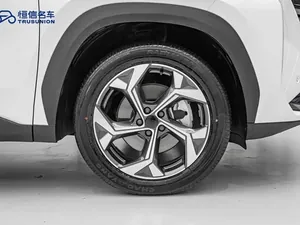
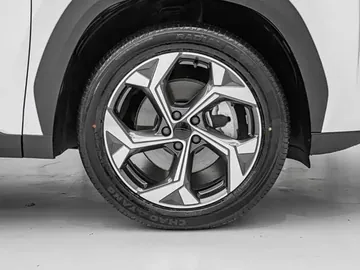
daily: 2026-09-24 每日上架 4 台 (JB-9496 瑞虎7, JB-9506 瑞虎8, JB-9516 博越L, JB-9526 星越L); 封面正前/左前45°目检落地 + 清除博越L图片水印; ingest_batch 新增 stock_id 重复防呆闸; 修复误覆盖的 id=271(哈弗H6)

diff --git a/ru/index.html b/ru/index.html
@@ -95,8 +95,8 @@
     <div class="jv7-grid4">
 <article class="jv7-car"><div class="jv7-car-photo"><img src="/uploads/cars/409/primary.webp" alt="Geely Monjaro 2021 2.0TD автомат 4WD флагман" loading="lazy" decoding="async" width="720" height="540"><span class="jv7-tags"><b>2021</b><span class="jv7-chip">Бензин</span><span class="jv7-chip">SUV</span></span></div><div class="jv7-car-body"><h3 class="jv7-car-name">Geely Monjaro 2021 2.0TD автомат 4WD флагман</h3><div class="jv7-car-spec">JB-9526 · 38,000 km</div><p class="jv7-car-desc">Автомобиль JB-9526: Geely Monjaro 2021 2.0TD автомат 4WD флагман, 2021 год, заявленный пробег 38,000 км. Наличие, состояние и экспортная цена подтвер…</p><div class="jv7-car-foot"><div><div class="jv7-price">$14,972 <span class="jv7-cur">USD</span></div><div class="jv7-fob">FOB Момбаса · Шанхай</div></div><a class="jv7-btn jv7-btn--details" href="/ru/cars/409/">Подробнее <span aria-hidden="true">→</span></a></div></div></article>
 <article class="jv7-car"><div class="jv7-car-photo"><img src="/uploads/cars/408/primary.webp" alt="Geely L 2023 2.0TD DCT флагман" loading="lazy" decoding="async" width="720" height="540"><span class="jv7-tags"><b>2023</b><span class="jv7-chip">Бензин</span><span class="jv7-chip">SUV</span></span></div><div class="jv7-car-body"><h3 class="jv7-car-name">Geely L 2023 2.0TD DCT флагман</h3><div class="jv7-car-spec">JB-9516 · 60,000 km</div><p class="jv7-car-desc">Автомобиль JB-9516: Geely L 2023 2.0TD DCT флагман, 2023 год, заявленный пробег 60,000 км. Наличие, состояние и экспортная цена подтверждаются до опл…</p><div class="jv7-car-foot"><div><div class="jv7-price">$9,833 <span class="jv7-cur">USD</span></div><div class="jv7-fob">FOB Момбаса · Шанхай</div></div><a class="jv7-btn jv7-btn--details" href="/ru/cars/408/">Подробнее <span aria-hidden="true">→</span></a></div></div></article>
-<article class="jv7-car"><div class="jv7-car-photo"><img src="/uploads/cars/407/primary.webp" alt="Chery Tiggo 8 PLUS 2025 290TGDI DCT премиум" loading="lazy" decoding="async" width="720" height="540"><span class="jv7-tags"><b>2025</b><span class="jv7-chip">Бензин</span><span class="jv7-chip">SUV</span></span></div><div class="jv7-car-body"><h3 class="jv7-car-name">Chery Tiggo 8 PLUS 2025 290TGDI DCT премиум</h3><div class="jv7-car-spec">JB-9506 · 4,000 km</div><p class="jv7-car-desc">Автомобиль JB-9506: Chery Tiggo 8 PLUS 2025 290TGDI DCT премиум, 2025 год, заявленный пробег 4,000 км. Наличие, состояние и экспортная цена подтвержд…</p><div class="jv7-car-foot"><div><div class="jv7-price">$9,514 <span class="jv7-cur">USD</span></div><div class="jv7-fob">FOB Момбаса · Шанхай</div></div><a class="jv7-btn jv7-btn--details" href="/ru/cars/407/">Подробнее <span aria-hidden="true">→</span></a></div></div></article>
 <article class="jv7-car"><div class="jv7-car-photo"><img src="/uploads/cars/406/primary.webp" alt="Chery Tiggo 7 PLUS 2023 1.5TCI CVT версия" loading="lazy" decoding="async" width="720" height="540"><span class="jv7-tags"><b>2023</b><span class="jv7-chip">Бензин</span><span class="jv7-chip">SUV</span></span></div><div class="jv7-car-body"><h3 class="jv7-car-name">Chery Tiggo 7 PLUS 2023 1.5TCI CVT версия</h3><div class="jv7-car-spec">JB-9496 · 38,000 km</div><p class="jv7-car-desc">Автомобиль JB-9496: Chery Tiggo 7 PLUS 2023 1.5TCI CVT версия, 2023 год, заявленный пробег 38,000 км. Наличие, состояние и экспортная цена подтвержда…</p><div class="jv7-car-foot"><div><div class="jv7-price">$9,875 <span class="jv7-cur">USD</span></div><div class="jv7-fob">FOB Момбаса · Шанхай</div></div><a class="jv7-btn jv7-btn--details" href="/ru/cars/406/">Подробнее <span aria-hidden="true">→</span></a></div></div></article>
+<article class="jv7-car"><div class="jv7-car-photo"><img src="/uploads/cars/404/photo-09.webp" alt="Li Auto L7 2023 Pro" loading="lazy" decoding="async" width="720" height="540"><span class="jv7-tags"><b>2023</b><span class="jv7-chip">PHEV</span><span class="jv7-chip">SUV</span></span></div><div class="jv7-car-body"><h3 class="jv7-car-name">Li Auto L7 2023 Pro</h3><div class="jv7-car-spec">JB-9485 · 75,000 km</div><p class="jv7-car-desc">Автомобиль JB-9485: Li Auto L7 2023 Pro, 2023 год, заявленный пробег 75,000 км. Наличие, состояние и экспортная цена подтверждаются до оплаты.</p><div class="jv7-car-foot"><div><div class="jv7-price">$23,444 <span class="jv7-cur">USD</span></div><div class="jv7-fob">FOB Момбаса · Шанхай</div></div><a class="jv7-btn jv7-btn--details" href="/ru/cars/404/">Подробнее <span aria-hidden="true">→</span></a></div></div></article>
     </div>
   </div>
 </section>

diff --git a/ar/index.html b/ar/index.html
@@ -95,8 +95,8 @@
     <div class="jv7-grid4">
 <article class="jv7-car"><div class="jv7-car-photo"><img src="/uploads/cars/409/primary.webp" alt="Geely Monjaro 2021 2.0TD أوتوماتيك 4WD رائدة" loading="lazy" decoding="async" width="720" height="540"><span class="jv7-tags"><b>2021</b><span class="jv7-chip">بنزين</span><span class="jv7-chip">SUV</span></span></div><div class="jv7-car-body"><h3 class="jv7-car-name">Geely Monjaro 2021 2.0TD أوتوماتيك 4WD رائدة</h3><div class="jv7-car-spec">JB-9526 · 38,000 km</div><p class="jv7-car-desc">المخزون JB-9526: Geely Monjaro 2021 2.0TD أوتوماتيك 4WD رائدة موديل 2021، والعداد المعروض 38,000 كم. يجب تأكيد التوفر والحالة وعرض التصدير قبل الدفع.</p><div class="jv7-car-foot"><div><div class="jv7-price">$14,972 <span class="jv7-cur">USD</span></div><div class="jv7-fob">FOB مومباسا · شنغهاي</div></div><a class="jv7-btn jv7-btn--details" href="/ar/cars/409/">التفاصيل <span aria-hidden="true">→</span></a></div></div></article>
 <article class="jv7-car"><div class="jv7-car-photo"><img src="/uploads/cars/408/primary.webp" alt="Geely L 2023 2.0TD DCT رائدة" loading="lazy" decoding="async" width="720" height="540"><span class="jv7-tags"><b>2023</b><span class="jv7-chip">بنزين</span><span class="jv7-chip">SUV</span></span></div><div class="jv7-car-body"><h3 class="jv7-car-name">Geely L 2023 2.0TD DCT رائدة</h3><div class="jv7-car-spec">JB-9516 · 60,000 km</div><p class="jv7-car-desc">المخزون JB-9516: Geely L 2023 2.0TD DCT رائدة موديل 2023، والعداد المعروض 60,000 كم. يجب تأكيد التوفر والحالة وعرض التصدير قبل الدفع.</p><div class="jv7-car-foot"><div><div class="jv7-price">$9,833 <span class="jv7-cur">USD</span></div><div class="jv7-fob">FOB مومباسا · شنغهاي</div></div><a class="jv7-btn jv7-btn--details" href="/ar/cars/408/">التفاصيل <span aria-hidden="true">→</span></a></div></div></article>
-<article class="jv7-car"><div class="jv7-car-photo"><img src="/uploads/cars/407/primary.webp" alt="Chery Tiggo 8 PLUS 2025 290TGDI DCT بريميوم" loading="lazy" decoding="async" width="720" height="540"><span class="jv7-tags"><b>2025</b><span class="jv7-chip">بنزين</span><span class="jv7-chip">SUV</span></span></div><div class="jv7-car-body"><h3 class="jv7-car-name">Chery Tiggo 8 PLUS 2025 290TGDI DCT بريميوم</h3><div class="jv7-car-spec">JB-9506 · 4,000 km</div><p class="jv7-car-desc">المخزون JB-9506: Chery Tiggo 8 PLUS 2025 290TGDI DCT بريميوم موديل 2025، والعداد المعروض 4,000 كم. يجب تأكيد التوفر والحالة وعرض التصدير قبل الدفع.</p><div class="jv7-car-foot"><div><div class="jv7-price">$9,514 <span class="jv7-cur">USD</span></div><div class="jv7-fob">FOB مومباسا · شنغهاي</div></div><a class="jv7-btn jv7-btn--details" href="/ar/cars/407/">التفاصيل <span aria-hidden="true">→</span></a></div></div></article>
 <article class="jv7-car"><div class="jv7-car-photo"><img src="/uploads/cars/406/primary.webp" alt="Chery Tiggo 7 PLUS 2023 1.5TCI CVT فئة" loading="lazy" decoding="async" width="720" height="540"><span class="jv7-tags"><b>2023</b><span class="jv7-chip">بنزين</span><span class="jv7-chip">SUV</span></span></div><div class="jv7-car-body"><h3 class="jv7-car-name">Chery Tiggo 7 PLUS 2023 1.5TCI CVT فئة</h3><div class="jv7-car-spec">JB-9496 · 38,000 km</div><p class="jv7-car-desc">المخزون JB-9496: Chery Tiggo 7 PLUS 2023 1.5TCI CVT فئة موديل 2023، والعداد المعروض 38,000 كم. يجب تأكيد التوفر والحالة وعرض التصدير قبل الدفع.</p><div class="jv7-car-foot"><div><div class="jv7-price">$9,875 <span class="jv7-cur">USD</span></div><div class="jv7-fob">FOB مومباسا · شنغهاي</div></div><a class="jv7-btn jv7-btn--details" href="/ar/cars/406/">التفاصيل <span aria-hidden="true">→</span></a></div></div></article>
+<article class="jv7-car"><div class="jv7-car-photo"><img src="/uploads/cars/404/photo-09.webp" alt="Li Auto L7 2023 Pro" loading="lazy" decoding="async" width="720" height="540"><span class="jv7-tags"><b>2023</b><span class="jv7-chip">هجين</span><span class="jv7-chip">SUV</span></span></div><div class="jv7-car-body"><h3 class="jv7-car-name">Li Auto L7 2023 Pro</h3><div class="jv7-car-spec">JB-9485 · 75,000 km</div><p class="jv7-car-desc">المخزون JB-9485: Li Auto L7 2023 Pro موديل 2023، والعداد المعروض 75,000 كم. يجب تأكيد التوفر والحالة وعرض التصدير قبل الدفع.</p><div class="jv7-car-foot"><div><div class="jv7-price">$23,444 <span class="jv7-cur">USD</span></div><div class="jv7-fob">FOB مومباسا · شنغهاي</div></div><a class="jv7-btn jv7-btn--details" href="/ar/cars/404/">التفاصيل <span aria-hidden="true">→</span></a></div></div></article>
     </div>
   </div>
 </section>

diff --git a/zh/index.html b/zh/index.html
@@ -95,8 +95,8 @@
     <div class="jv7-grid4">
 <article class="jv7-car"><div class="jv7-car-photo"><img src="/uploads/cars/409/primary.webp" alt="星越L 2021款 2.0TD 高功自动四驱旗舰型" loading="lazy" decoding="async" width="720" height="540"><span class="jv7-tags"><b>2021</b><span class="jv7-chip">汽油</span><span class="jv7-chip">SUV</span></span></div><div class="jv7-car-body"><h3 class="jv7-car-name">星越L 2021款 2.0TD 高功自动四驱旗舰型</h3><div class="jv7-car-spec">JB-9526 · 38,000 km</div><p class="jv7-car-desc">库存编号JB-9526，2021年星越L 2021款 2.0TD 高功自动四驱旗舰型，表显里程38,000公里。库存、车况和出口报价请在付款前确认。</p><div class="jv7-car-foot"><div><div class="jv7-price">$14,972 <span class="jv7-cur">USD</span></div><div class="jv7-fob">FOB 蒙巴萨 · 上海港</div></div><a class="jv7-btn jv7-btn--details" href="/zh/cars/409/">查看详情 <span aria-hidden="true">→</span></a></div></div></article>
 <article class="jv7-car"><div class="jv7-car-photo"><img src="/uploads/cars/408/primary.webp" alt="博越L 2023款 2.0TD DCT旗舰型" loading="lazy" decoding="async" width="720" height="540"><span class="jv7-tags"><b>2023</b><span class="jv7-chip">汽油</span><span class="jv7-chip">SUV</span></span></div><div class="jv7-car-body"><h3 class="jv7-car-name">博越L 2023款 2.0TD DCT旗舰型</h3><div class="jv7-car-spec">JB-9516 · 60,000 km</div><p class="jv7-car-desc">库存编号JB-9516，2023年博越L 2023款 2.0TD DCT旗舰型，表显里程60,000公里。库存、车况和出口报价请在付款前确认。</p><div class="jv7-car-foot"><div><div class="jv7-price">$9,833 <span class="jv7-cur">USD</span></div><div class="jv7-fob">FOB 蒙巴萨 · 上海港</div></div><a class="jv7-btn jv7-btn--details" href="/zh/cars/408/">查看详情 <span aria-hidden="true">→</span></a></div></div></article>
-<article class="jv7-car"><div class="jv7-car-photo"><img src="/uploads/cars/407/primary.webp" alt="瑞虎8 PLUS 2025款 290TGDI DCT尊贵版" loading="lazy" decoding="async" width="720" height="540"><span class="jv7-tags"><b>2025</b><span class="jv7-chip">汽油</span><span class="jv7-chip">SUV</span></span></div><div class="jv7-car-body"><h3 class="jv7-car-name">瑞虎8 PLUS 2025款 290TGDI DCT尊贵版</h3><div class="jv7-car-spec">JB-9506 · 4,000 km</div><p class="jv7-car-desc">库存编号JB-9506，2025年瑞虎8 PLUS 2025款 290TGDI DCT尊贵版，表显里程4,000公里。库存、车况和出口报价请在付款前确认。</p><div class="jv7-car-foot"><div><div class="jv7-price">$9,514 <span class="jv7-cur">USD</span></div><div class="jv7-fob">FOB 蒙巴萨 · 上海港</div></div><a class="jv7-btn jv7-btn--details" href="/zh/cars/407/">查看详情 <span aria-hidden="true">→</span></a></div></div></article>
 <article class="jv7-car"><div class="jv7-car-photo"><img src="/uploads/cars/406/primary.webp" alt="瑞虎7 PLUS 2023款 1.5TCI CVT新享版" loading="lazy" decoding="async" width="720" height="540"><span class="jv7-tags"><b>2023</b><span class="jv7-chip">汽油</span><span class="jv7-chip">SUV</span></span></div><div class="jv7-car-body"><h3 class="jv7-car-name">瑞虎7 PLUS 2023款 1.5TCI CVT新享版</h3><div class="jv7-car-spec">JB-9496 · 38,000 km</div><p class="jv7-car-desc">库存编号JB-9496，2023年瑞虎7 PLUS 2023款 1.5TCI CVT新享版，表显里程38,000公里。库存、车况和出口报价请在付款前确认。</p><div class="jv7-car-foot"><div><div class="jv7-price">$9,875 <span class="jv7-cur">USD</span></div><div class="jv7-fob">FOB 蒙巴萨 · 上海港</div></div><a class="jv7-btn jv7-btn--details" href="/zh/cars/406/">查看详情 <span aria-hidden="true">→</span></a></div></div></article>
+<article class="jv7-car"><div class="jv7-car-photo"><img src="/uploads/cars/404/photo-09.webp" alt="理想L7 2023款 Pro" loading="lazy" decoding="async" width="720" height="540"><span class="jv7-tags"><b>2023</b><span class="jv7-chip">插混</span><span class="jv7-chip">SUV</span></span></div><div class="jv7-car-body"><h3 class="jv7-car-name">理想L7 2023款 Pro</h3><div class="jv7-car-spec">JB-9485 · 75,000 km</div><p class="jv7-car-desc">库存编号JB-9485，2023年理想L7 2023款 Pro，表显里程75,000公里。库存、车况和出口报价请在付款前确认。</p><div class="jv7-car-foot"><div><div class="jv7-price">$23,444 <span class="jv7-cur">USD</span></div><div class="jv7-fob">FOB 蒙巴萨 · 上海港</div></div><a class="jv7-btn jv7-btn--details" href="/zh/cars/404/">查看详情 <span aria-hidden="true">→</span></a></div></div></article>
     </div>
   </div>
 </section>

diff --git a/en/index.html b/en/index.html
@@ -95,8 +95,8 @@
     <div class="jv7-grid4">
 <article class="jv7-car"><div class="jv7-car-photo"><img src="/uploads/cars/409/primary.webp" alt="Geely Monjaro 2021 2.0TD Automatic 4WD Flagship" loading="lazy" decoding="async" width="720" height="540"><span class="jv7-tags"><b>2021</b><span class="jv7-chip">Petrol</span><span class="jv7-chip">SUV</span></span></div><div class="jv7-car-body"><h3 class="jv7-car-name">Geely Monjaro 2021 2.0TD Automatic 4WD Flagship</h3><div class="jv7-car-spec">JB-9526 · 38,000 km</div><p class="jv7-car-desc">Stock JB-9526: 2021 Geely Monjaro 2021 2.0TD Automatic 4WD Flagship with 38,000 km indicated mileage. Confirm availability, condition and export quot…</p><div class="jv7-car-foot"><div><div class="jv7-price">$14,972 <span class="jv7-cur">USD</span></div><div class="jv7-fob">FOB Mombasa · Shanghai</div></div><a class="jv7-btn jv7-btn--details" href="/en/cars/409/">Details <span aria-hidden="true">→</span></a></div></div></article>
 <article class="jv7-car"><div class="jv7-car-photo"><img src="/uploads/cars/408/primary.webp" alt="Geely L 2023 2.0TD DCT Flagship" loading="lazy" decoding="async" width="720" height="540"><span class="jv7-tags"><b>2023</b><span class="jv7-chip">Petrol</span><span class="jv7-chip">SUV</span></span></div><div class="jv7-car-body"><h3 class="jv7-car-name">Geely L 2023 2.0TD DCT Flagship</h3><div class="jv7-car-spec">JB-9516 · 60,000 km</div><p class="jv7-car-desc">Stock JB-9516: 2023 Geely L 2023 2.0TD DCT Flagship with 60,000 km indicated mileage. Confirm availability, condition and export quotation before pay…</p><div class="jv7-car-foot"><div><div class="jv7-price">$9,833 <span class="jv7-cur">USD</span></div><div class="jv7-fob">FOB Mombasa · Shanghai</div></div><a class="jv7-btn jv7-btn--details" href="/en/cars/408/">Details <span aria-hidden="true">→</span></a></div></div></article>
-<article class="jv7-car"><div class="jv7-car-photo"><img src="/uploads/cars/407/primary.webp" alt="Chery Tiggo 8 PLUS 2025 290TGDI DCT Premium" loading="lazy" decoding="async" width="720" height="540"><span class="jv7-tags"><b>2025</b><span class="jv7-chip">Petrol</span><span class="jv7-chip">SUV</span></span></div><div class="jv7-car-body"><h3 class="jv7-car-name">Chery Tiggo 8 PLUS 2025 290TGDI DCT Premium</h3><div class="jv7-car-spec">JB-9506 · 4,000 km</div><p class="jv7-car-desc">Stock JB-9506: 2025 Chery Tiggo 8 PLUS 2025 290TGDI DCT Premium with 4,000 km indicated mileage. Confirm availability, condition and export quotation…</p><div class="jv7-car-foot"><div><div class="jv7-price">$9,514 <span class="jv7-cur">USD</span></div><div class="jv7-fob">FOB Mombasa · Shanghai</div></div><a class="jv7-btn jv7-btn--details" href="/en/cars/407/">Details <span aria-hidden="true">→</span></a></div></div></article>
 <article class="jv7-car"><div class="jv7-car-photo"><img src="/uploads/cars/406/primary.webp" alt="Chery Tiggo 7 PLUS 2023 1.5TCI CVT Edition" loading="lazy" decoding="async" width="720" height="540"><span class="jv7-tags"><b>2023</b><span class="jv7-chip">Petrol</span><span class="jv7-chip">SUV</span></span></div><div class="jv7-car-body"><h3 class="jv7-car-name">Chery Tiggo 7 PLUS 2023 1.5TCI CVT Edition</h3><div class="jv7-car-spec">JB-9496 · 38,000 km</div><p class="jv7-car-desc">Stock JB-9496: 2023 Chery Tiggo 7 PLUS 2023 1.5TCI CVT Edition with 38,000 km indicated mileage. Confirm availability, condition and export quotation…</p><div class="jv7-car-foot"><div><div class="jv7-price">$9,875 <span class="jv7-cur">USD</span></div><div class="jv7-fob">FOB Mombasa · Shanghai</div></div><a class="jv7-btn jv7-btn--details" href="/en/cars/406/">Details <span aria-hidden="true">→</span></a></div></div></article>
+<article class="jv7-car"><div class="jv7-car-photo"><img src="/uploads/cars/404/photo-09.webp" alt="Li Auto L7 2023 Pro" loading="lazy" decoding="async" width="720" height="540"><span class="jv7-tags"><b>2023</b><span class="jv7-chip">PHEV</span><span class="jv7-chip">SUV</span></span></div><div class="jv7-car-body"><h3 class="jv7-car-name">Li Auto L7 2023 Pro</h3><div class="jv7-car-spec">JB-9485 · 75,000 km</div><p class="jv7-car-desc">Stock JB-9485: 2023 Li Auto L7 2023 Pro with 75,000 km indicated mileage. Confirm availability, condition and export quotation before payment.</p><div class="jv7-car-foot"><div><div class="jv7-price">$23,444 <span class="jv7-cur">USD</span></div><div class="jv7-fob">FOB Mombasa · Shanghai</div></div><a class="jv7-btn jv7-btn--details" href="/en/cars/404/">Details <span aria-hidden="true">→</span></a></div></div></article>
     </div>
   </div>
 </section>

diff --git a/scripts/ingest_batch.py b/scripts/ingest_batch.py
@@ -162,6 +162,14 @@ def main():
                 print(f"[下架] {stock}")
 
     next_id = max((int(v["id"]) for v in vehicles), default=0) + 1
+    # 防呆：同一份 CSV 里 stock_id 重复 = 采集端编号分配出错，
+    # 若直接入库会按 stock 反复更新同一台车、覆盖已有记录（2026-09-24 事故）。
+    _stocks = [norm(r.get("stock_id")) for r in rows if norm(r.get("stock_id"))]
+    _dups = sorted({s for s in _stocks if _stocks.count(s) > 1})
+    if _dups:
+        print(f"!! CSV 内 stock_id 重复 {_dups}（采集端编号分配出错），"
+              f"为避免覆盖已有车辆，已中止入库。请检查 scrape_wap 的 --stock-prefix。")
+        return 2
     preview: list[str] = []
     for r in rows:
         stock = norm(r.get("stock_id"))

diff --git a/scripts/verify_ui.py b/scripts/verify_ui.py
@@ -21,7 +21,7 @@ ROOT = Path(__file__).resolve().parents[1]
 LANGS = ['en', 'zh', 'ru', 'ar']
 # 抽样详情页：从已发布车辆中取代表（新批次 2026-09-che168-full）
 # 若对应 id 未发布则自动跳过（check 会标 FAIL，提示重新选样本）
-SAMPLE_CARS = [402, 403, 404, 405, 326]
+SAMPLE_CARS = [406, 407, 408, 409, 326]
 
 
 def car_count():
